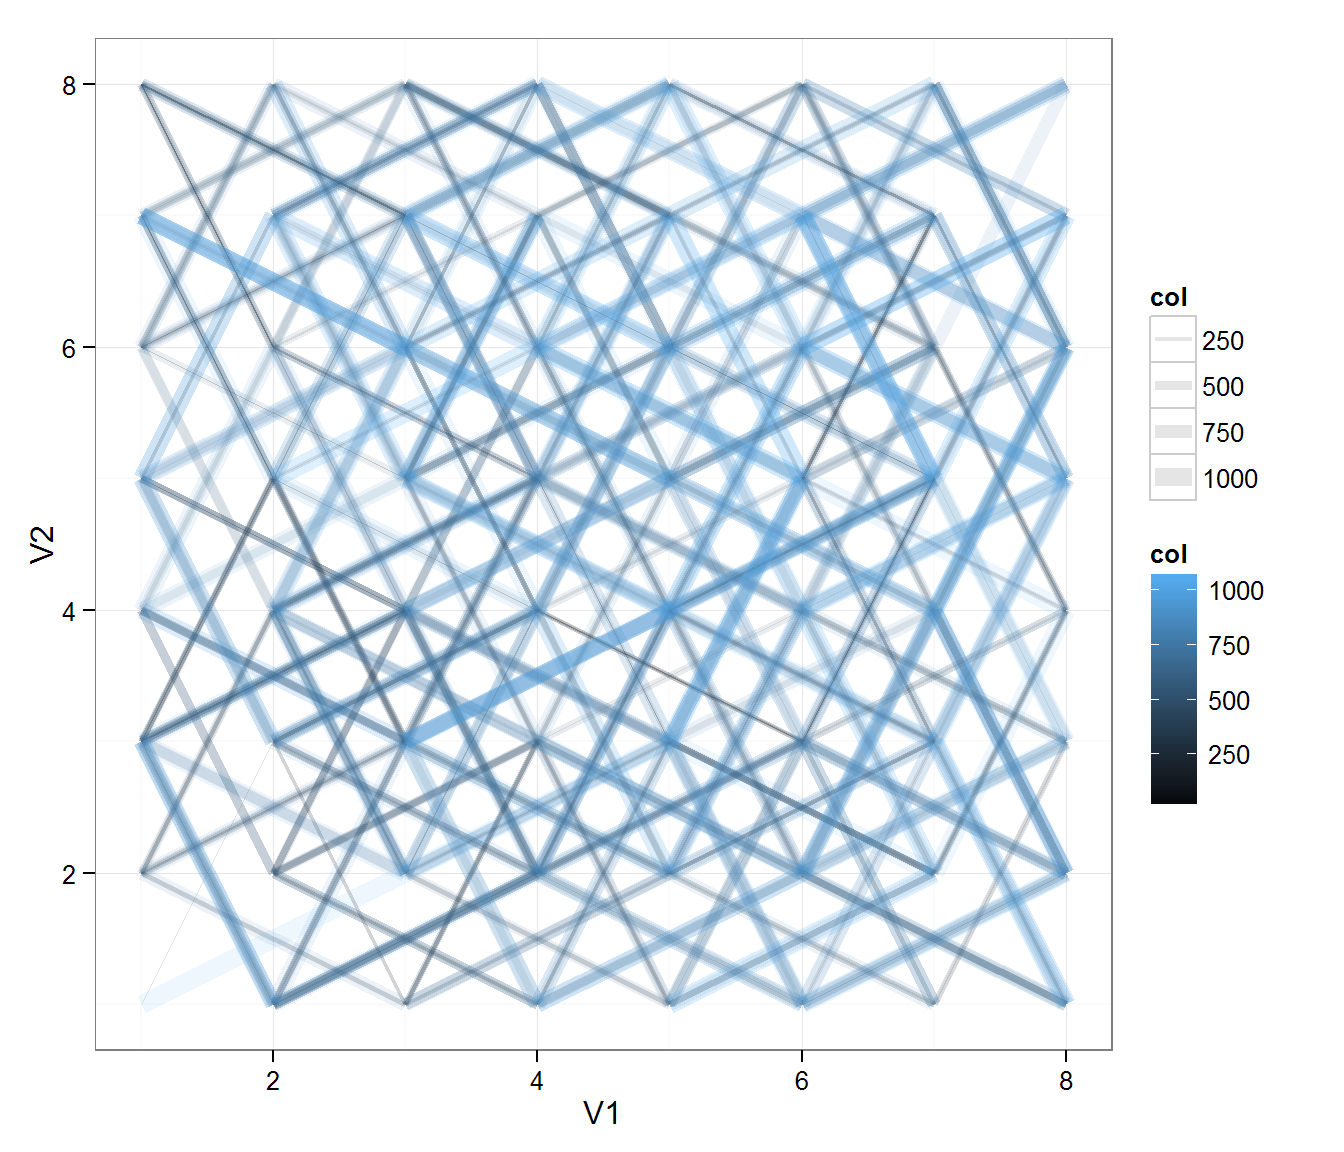
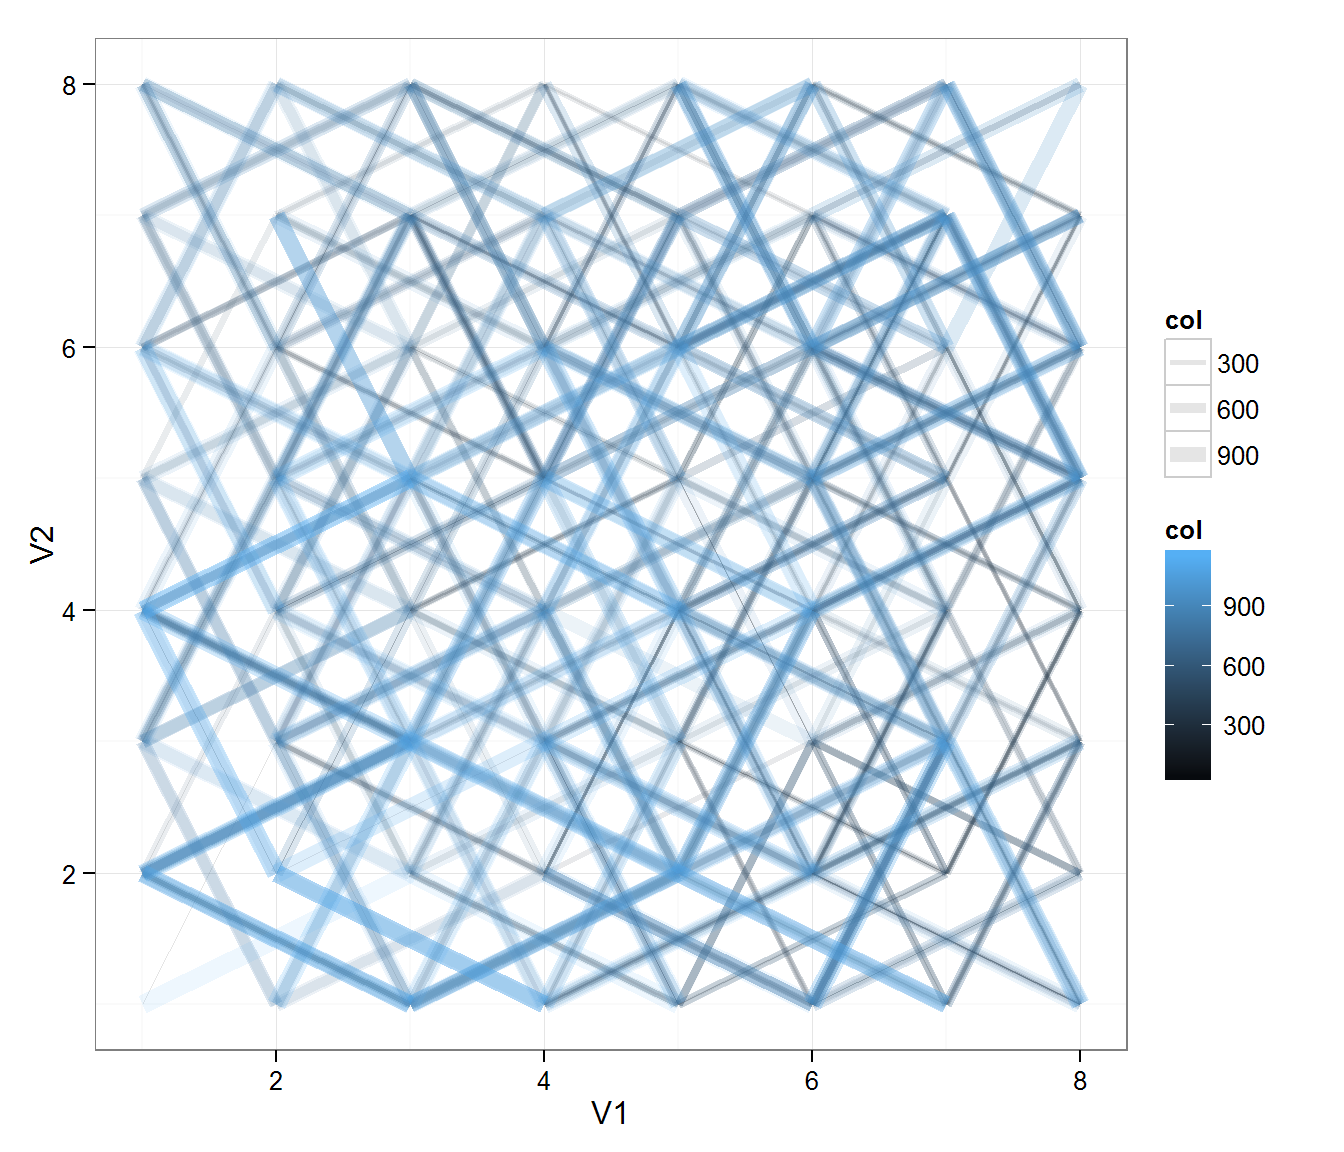
minor

diff --git a/knight_moves.html b/knight_moves.html
@@ -190,10 +190,10 @@ n.steps &lt;- function(){
 }
 
 
-n&lt;-1000
+n&lt;-10000
 res&lt;-replicate(n,n.steps())
 mea &lt;- mean(res)</code></pre>
-<p>Από τα παραπάνω προκύπτει μέση τιμή ίση μέ: <strong>152.852</strong>. <br></p>
+<p>Από τα παραπάνω προκύπτει μέση τιμή ίση μέ: <strong>168.892</strong>. <br></p>
 </div>
 <div id="-----------" class="section level4">
 <h4>Μια από τις διαδρομές, όπου ο ίππος καθυστέρησε να επιστρέψει στην αφετηρία</h4>
@@ -208,7 +208,7 @@ p + geom_path(aes(colour = col,size = col),alpha=.1) +
   scale_colour_gradient(low=&quot;black&quot;) +
   theme_bw()</code></pre>
 <p><img src="knight_moves_files/figure-html/unnamed-chunk-2.png" title="plot of chunk unnamed-chunk-2" alt="plot of chunk unnamed-chunk-2" width="672" style="display:block; margin:auto;" /></p>
-<p>Όσο πιο θαλασσιά και παχιά η γραμμή τόσο σε μεταγενέστερο στάδιο έγινε η κίνηση. Στην περίπτωση αυτή χρειάστηκαν <strong>1093</strong> κινήσεις για να επιστρέψει ο ίππος στο τετράγωνο (1,1). Τα τετράγωνα παριστάνονται ως σημεία στο επίπεδο με συντεταγμένες από (1,1) έως (8,8) <br></p>
+<p>Όσο πιο θαλασσιά και παχιά η γραμμή τόσο σε μεταγενέστερο στάδιο έγινε η κίνηση. Στην περίπτωση αυτή χρειάστηκαν <strong>1159</strong> κινήσεις για να επιστρέψει ο ίππος στο τετράγωνο (1,1). Τα τετράγωνα παριστάνονται ως σημεία στο επίπεδο με συντεταγμένες από (1,1) έως (8,8) <br></p>
 </div>
 <div id="---------" class="section level4">
 <h4>Κατανομή του αριθμού των βημάτων που απαιτήθηκαν έως την επιστροφή</h4>
@@ -305,7 +305,7 @@ while(1){
 </div>
 <div id="-------------" class="section level3">
 <h3>Κίνησε τον ίππο ώστε να περάσει μια μόνο φορά από κάθε τετράγωνο της σκακιέρας</h3>
-<p>O Leonhard Euler (1707-1783) είχε βρει ένα τρόπο μετακίνησης του αλόγου στο σκάκι, έτσι ώστε να περάσει από όλα τα τετράγωνα μία και μόνο φορά. Μπορείτε να βρείτε μια τέτοια διαδοχή κινήσεων, ξεκινώντας από το τετράγωνο Α1; <br></p>
+<p>O Leonhard Euler (1707-1783) είχε βρει ένα τρόπο μετακίνησης του ίππου στο σκάκι, έτσι ώστε να περάσει από όλα τα τετράγωνα μία και μόνο φορά. Μπορείτε να βρείτε μια τέτοια διαδοχή κινήσεων, ξεκινώντας από το τετράγωνο Α1; <br></p>
 <div id="----" class="section level4">
 <h4>Υπολογισμός με χρήση αναδρομικής συνάρτησης</h4>
 <p>Παρακάτω δίνεται ένας τρόπος εύρεσης μιας διαδοχής κινήσεων του ίππου, ώστε να περάσει από όλα τα τετράγωνα της σκακιέρας μια και μόνο φορά, με τη βοήθεια μιας αναδρομική συνάρτηση:</p>
